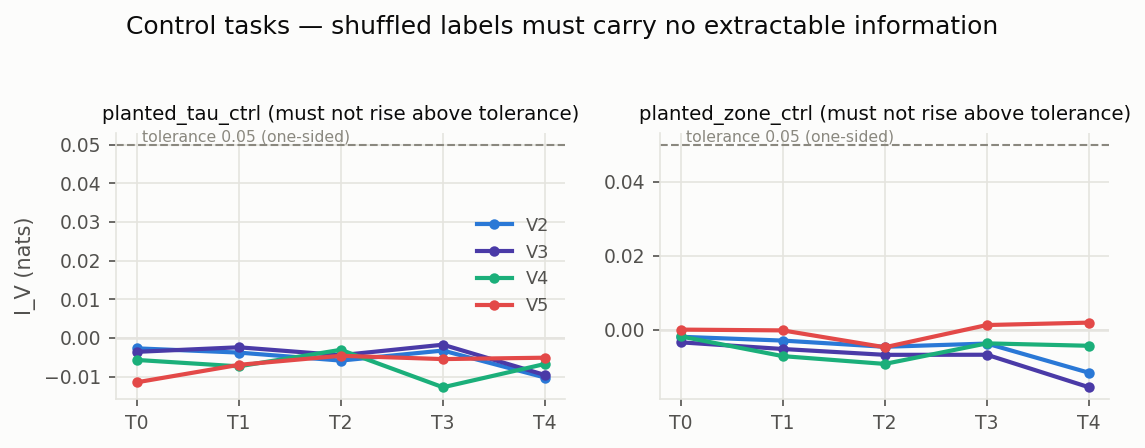
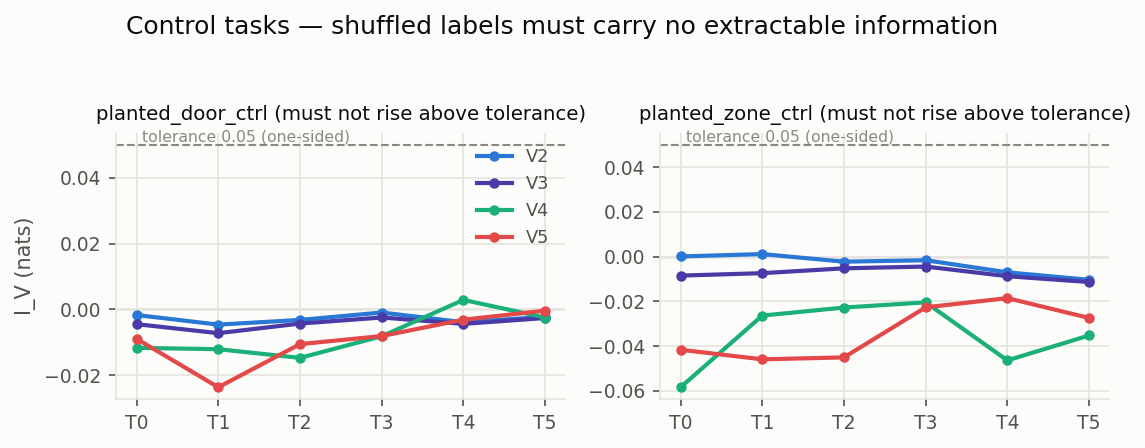
T-ladder instrument calibration PASS (P-4): 71/71 checks, run 7220
Six planted targets recover exactly at their planted tiers across V1-V5 on the
six-tier ladder; controls extract nothing. Figure-2 candidate surface in
results/reports/a0_calibration/. Bonus finding visible in the surface: V3's
partial degree readout at T2+ via door-counts (structure surfacing through
features) — a preview of exactly the effects the study measures.

diff --git a/results/reports/a0_calibration/report.md b/results/reports/a0_calibration/report.md
@@ -9,11 +9,11 @@ planted level and shuffled controls extract nothing (plan §6 Phase A0).
 
 | | |
 |---|---|
-| run_id | `20260714T032204Z-calibration_a0-s20260714` |
-| git SHA | `b7ac89685f99` |
-| config | `configs/calibration_a0.yaml` (sha256 `576a67a36af6…`) |
+| run_id | `20260714T043641Z-calibration_a0-s20260714` |
+| git SHA | `1c70d7aceb8b` |
+| config | `configs/calibration_t_ladder.yaml` (sha256 `c1f896b44649…`) |
 | seed | 20260714 |
-| cells | 453 (0 failed) |
+| cells | 723 (0 failed) |
 | host/job | deepnet2 |
 
 ## Calibration surface
@@ -37,61 +37,77 @@ dashed tolerance would indicate leakage/memorization.
 
 | check | detail | result |
 |---|---|---|
-| saturation | planted_degree · V4: I_V@T0 = 0.501 vs max below = 0.000 (margin 0.1) | PASS |
-| saturation | planted_degree · V5: I_V@T0 = 0.502 vs max below = 0.000 (margin 0.1) | PASS |
-| saturation | planted_tau · V2: I_V@T2 = 0.670 vs max below = -0.001 (margin 0.1) | PASS |
-| saturation | planted_tau · V3: I_V@T2 = 0.670 vs max below = 0.000 (margin 0.1) | PASS |
-| saturation | planted_tau · V4: I_V@T2 = 0.689 vs max below = -0.002 (margin 0.1) | PASS |
-| saturation | planted_tau · V5: I_V@T2 = 0.689 vs max below = -0.002 (margin 0.1) | PASS |
-| saturation | planted_delta · V2: I_V@T3 = 0.642 vs max below = -0.001 (margin 0.1) | PASS |
-| saturation | planted_delta · V3: I_V@T3 = 0.642 vs max below = -0.002 (margin 0.1) | PASS |
-| saturation | planted_delta · V4: I_V@T3 = 0.662 vs max below = -0.003 (margin 0.1) | PASS |
-| saturation | planted_delta · V5: I_V@T3 = 0.662 vs max below = -0.002 (margin 0.1) | PASS |
-| saturation | planted_zone · V0: I_V@T4 = 0.679 vs max below = 0.000 (margin 0.1) | PASS |
-| saturation | planted_zone · V2: I_V@T4 = 0.675 vs max below = -0.003 (margin 0.1) | PASS |
-| saturation | planted_zone · V3: I_V@T4 = 0.675 vs max below = -0.006 (margin 0.1) | PASS |
-| saturation | planted_zone · V4: I_V@T4 = 0.680 vs max below = -0.002 (margin 0.1) | PASS |
-| saturation | planted_zone · V5: I_V@T4 = 0.680 vs max below = -0.001 (margin 0.1) | PASS |
-| control | control planted_tau_ctrl · V2 @T0: I_V = -0.003 (< tol, one-sided) | PASS |
-| control | control planted_tau_ctrl · V2 @T1: I_V = -0.004 (< tol, one-sided) | PASS |
-| control | control planted_tau_ctrl · V2 @T2: I_V = -0.006 (< tol, one-sided) | PASS |
-| control | control planted_tau_ctrl · V2 @T3: I_V = -0.003 (< tol, one-sided) | PASS |
-| control | control planted_tau_ctrl · V2 @T4: I_V = -0.010 (< tol, one-sided) | PASS |
-| control | control planted_tau_ctrl · V3 @T0: I_V = -0.004 (< tol, one-sided) | PASS |
-| control | control planted_tau_ctrl · V3 @T1: I_V = -0.002 (< tol, one-sided) | PASS |
-| control | control planted_tau_ctrl · V3 @T2: I_V = -0.004 (< tol, one-sided) | PASS |
-| control | control planted_tau_ctrl · V3 @T3: I_V = -0.002 (< tol, one-sided) | PASS |
-| control | control planted_tau_ctrl · V3 @T4: I_V = -0.010 (< tol, one-sided) | PASS |
-| control | control planted_tau_ctrl · V4 @T0: I_V = -0.006 (< tol, one-sided) | PASS |
-| control | control planted_tau_ctrl · V4 @T1: I_V = -0.007 (< tol, one-sided) | PASS |
-| control | control planted_tau_ctrl · V4 @T2: I_V = -0.003 (< tol, one-sided) | PASS |
-| control | control planted_tau_ctrl · V4 @T3: I_V = -0.013 (< tol, one-sided) | PASS |
-| control | control planted_tau_ctrl · V4 @T4: I_V = -0.007 (< tol, one-sided) | PASS |
-| control | control planted_tau_ctrl · V5 @T0: I_V = -0.011 (< tol, one-sided) | PASS |
-| control | control planted_tau_ctrl · V5 @T1: I_V = -0.007 (< tol, one-sided) | PASS |
-| control | control planted_tau_ctrl · V5 @T2: I_V = -0.005 (< tol, one-sided) | PASS |
-| control | control planted_tau_ctrl · V5 @T3: I_V = -0.005 (< tol, one-sided) | PASS |
-| control | control planted_tau_ctrl · V5 @T4: I_V = -0.005 (< tol, one-sided) | PASS |
-| control | control planted_zone_ctrl · V2 @T0: I_V = -0.002 (< tol, one-sided) | PASS |
-| control | control planted_zone_ctrl · V2 @T1: I_V = -0.003 (< tol, one-sided) | PASS |
-| control | control planted_zone_ctrl · V2 @T2: I_V = -0.005 (< tol, one-sided) | PASS |
-| control | control planted_zone_ctrl · V2 @T3: I_V = -0.004 (< tol, one-sided) | PASS |
-| control | control planted_zone_ctrl · V2 @T4: I_V = -0.012 (< tol, one-sided) | PASS |
-| control | control planted_zone_ctrl · V3 @T0: I_V = -0.003 (< tol, one-sided) | PASS |
-| control | control planted_zone_ctrl · V3 @T1: I_V = -0.005 (< tol, one-sided) | PASS |
-| control | control planted_zone_ctrl · V3 @T2: I_V = -0.007 (< tol, one-sided) | PASS |
-| control | control planted_zone_ctrl · V3 @T3: I_V = -0.007 (< tol, one-sided) | PASS |
-| control | control planted_zone_ctrl · V3 @T4: I_V = -0.016 (< tol, one-sided) | PASS |
-| control | control planted_zone_ctrl · V4 @T0: I_V = -0.002 (< tol, one-sided) | PASS |
-| control | control planted_zone_ctrl · V4 @T1: I_V = -0.007 (< tol, one-sided) | PASS |
-| control | control planted_zone_ctrl · V4 @T2: I_V = -0.009 (< tol, one-sided) | PASS |
-| control | control planted_zone_ctrl · V4 @T3: I_V = -0.004 (< tol, one-sided) | PASS |
-| control | control planted_zone_ctrl · V4 @T4: I_V = -0.004 (< tol, one-sided) | PASS |
-| control | control planted_zone_ctrl · V5 @T0: I_V = +0.000 (< tol, one-sided) | PASS |
-| control | control planted_zone_ctrl · V5 @T1: I_V = -0.000 (< tol, one-sided) | PASS |
-| control | control planted_zone_ctrl · V5 @T2: I_V = -0.005 (< tol, one-sided) | PASS |
-| control | control planted_zone_ctrl · V5 @T3: I_V = +0.001 (< tol, one-sided) | PASS |
-| control | control planted_zone_ctrl · V5 @T4: I_V = +0.002 (< tol, one-sided) | PASS |
+| saturation | planted_degree · V4: I_V@T0 = 0.692 vs max below = 0.000 (margin 0.1) | PASS |
+| saturation | planted_degree · V5: I_V@T0 = 0.692 vs max below = 0.000 (margin 0.1) | PASS |
+| saturation | planted_label · V2: I_V@T1 = 0.690 vs max below = 0.003 (margin 0.1) | PASS |
+| saturation | planted_label · V3: I_V@T1 = 0.690 vs max below = -0.001 (margin 0.1) | PASS |
+| saturation | planted_label · V4: I_V@T1 = 0.693 vs max below = -0.004 (margin 0.1) | PASS |
+| saturation | planted_label · V5: I_V@T1 = 0.693 vs max below = -0.003 (margin 0.1) | PASS |
+| saturation | planted_door · V2: I_V@T2 = 0.584 vs max below = -0.005 (margin 0.1) | PASS |
+| saturation | planted_door · V3: I_V@T2 = 0.584 vs max below = -0.001 (margin 0.1) | PASS |
+| saturation | planted_door · V4: I_V@T2 = 0.589 vs max below = 0.009 (margin 0.1) | PASS |
+| saturation | planted_door · V5: I_V@T2 = 0.590 vs max below = -0.000 (margin 0.1) | PASS |
+| saturation | planted_attr · V2: I_V@T3 = 0.666 vs max below = -0.000 (margin 0.1) | PASS |
+| saturation | planted_attr · V3: I_V@T3 = 0.666 vs max below = -0.003 (margin 0.1) | PASS |
+| saturation | planted_attr · V4: I_V@T3 = 0.693 vs max below = -0.003 (margin 0.1) | PASS |
+| saturation | planted_attr · V5: I_V@T3 = 0.691 vs max below = -0.008 (margin 0.1) | PASS |
+| saturation | planted_delta · V2: I_V@T4 = 0.610 vs max below = -0.002 (margin 0.1) | PASS |
+| saturation | planted_delta · V3: I_V@T4 = 0.610 vs max below = -0.004 (margin 0.1) | PASS |
+| saturation | planted_delta · V4: I_V@T4 = 0.622 vs max below = -0.015 (margin 0.1) | PASS |
+| saturation | planted_delta · V5: I_V@T4 = 0.623 vs max below = -0.007 (margin 0.1) | PASS |
+| saturation | planted_zone · V0: I_V@T5 = 0.694 vs max below = 0.000 (margin 0.1) | PASS |
+| saturation | planted_zone · V2: I_V@T5 = 0.690 vs max below = 0.012 (margin 0.1) | PASS |
+| saturation | planted_zone · V3: I_V@T5 = 0.690 vs max below = 0.015 (margin 0.1) | PASS |
+| saturation | planted_zone · V4: I_V@T5 = 0.695 vs max below = -0.011 (margin 0.1) | PASS |
+| saturation | planted_zone · V5: I_V@T5 = 0.695 vs max below = -0.015 (margin 0.1) | PASS |
+| control | control planted_door_ctrl · V2 @T0: I_V = -0.002 (< tol, one-sided) | PASS |
+| control | control planted_door_ctrl · V2 @T1: I_V = -0.005 (< tol, one-sided) | PASS |
+| control | control planted_door_ctrl · V2 @T2: I_V = -0.003 (< tol, one-sided) | PASS |
+| control | control planted_door_ctrl · V2 @T3: I_V = -0.001 (< tol, one-sided) | PASS |
+| control | control planted_door_ctrl · V2 @T4: I_V = -0.004 (< tol, one-sided) | PASS |
+| control | control planted_door_ctrl · V2 @T5: I_V = -0.002 (< tol, one-sided) | PASS |
+| control | control planted_door_ctrl · V3 @T0: I_V = -0.004 (< tol, one-sided) | PASS |
+| control | control planted_door_ctrl · V3 @T1: I_V = -0.007 (< tol, one-sided) | PASS |
+| control | control planted_door_ctrl · V3 @T2: I_V = -0.004 (< tol, one-sided) | PASS |
+| control | control planted_door_ctrl · V3 @T3: I_V = -0.002 (< tol, one-sided) | PASS |
+| control | control planted_door_ctrl · V3 @T4: I_V = -0.004 (< tol, one-sided) | PASS |
+| control | control planted_door_ctrl · V3 @T5: I_V = -0.003 (< tol, one-sided) | PASS |
+| control | control planted_door_ctrl · V4 @T0: I_V = -0.012 (< tol, one-sided) | PASS |
+| control | control planted_door_ctrl · V4 @T1: I_V = -0.012 (< tol, one-sided) | PASS |
+| control | control planted_door_ctrl · V4 @T2: I_V = -0.015 (< tol, one-sided) | PASS |
+| control | control planted_door_ctrl · V4 @T3: I_V = -0.008 (< tol, one-sided) | PASS |
+| control | control planted_door_ctrl · V4 @T4: I_V = +0.003 (< tol, one-sided) | PASS |
+| control | control planted_door_ctrl · V4 @T5: I_V = -0.002 (< tol, one-sided) | PASS |
+| control | control planted_door_ctrl · V5 @T0: I_V = -0.009 (< tol, one-sided) | PASS |
+| control | control planted_door_ctrl · V5 @T1: I_V = -0.024 (< tol, one-sided) | PASS |
+| control | control planted_door_ctrl · V5 @T2: I_V = -0.011 (< tol, one-sided) | PASS |
+| control | control planted_door_ctrl · V5 @T3: I_V = -0.008 (< tol, one-sided) | PASS |
+| control | control planted_door_ctrl · V5 @T4: I_V = -0.003 (< tol, one-sided) | PASS |
+| control | control planted_door_ctrl · V5 @T5: I_V = -0.000 (< tol, one-sided) | PASS |
+| control | control planted_zone_ctrl · V2 @T0: I_V = +0.000 (< tol, one-sided) | PASS |
+| control | control planted_zone_ctrl · V2 @T1: I_V = +0.001 (< tol, one-sided) | PASS |
+| control | control planted_zone_ctrl · V2 @T2: I_V = -0.002 (< tol, one-sided) | PASS |
+| control | control planted_zone_ctrl · V2 @T3: I_V = -0.002 (< tol, one-sided) | PASS |
+| control | control planted_zone_ctrl · V2 @T4: I_V = -0.007 (< tol, one-sided) | PASS |
+| control | control planted_zone_ctrl · V2 @T5: I_V = -0.010 (< tol, one-sided) | PASS |
+| control | control planted_zone_ctrl · V3 @T0: I_V = -0.009 (< tol, one-sided) | PASS |
+| control | control planted_zone_ctrl · V3 @T1: I_V = -0.007 (< tol, one-sided) | PASS |
+| control | control planted_zone_ctrl · V3 @T2: I_V = -0.005 (< tol, one-sided) | PASS |
+| control | control planted_zone_ctrl · V3 @T3: I_V = -0.004 (< tol, one-sided) | PASS |
+| control | control planted_zone_ctrl · V3 @T4: I_V = -0.009 (< tol, one-sided) | PASS |
+| control | control planted_zone_ctrl · V3 @T5: I_V = -0.011 (< tol, one-sided) | PASS |
+| control | control planted_zone_ctrl · V4 @T0: I_V = -0.058 (< tol, one-sided) | PASS |
+| control | control planted_zone_ctrl · V4 @T1: I_V = -0.026 (< tol, one-sided) | PASS |
+| control | control planted_zone_ctrl · V4 @T2: I_V = -0.023 (< tol, one-sided) | PASS |
+| control | control planted_zone_ctrl · V4 @T3: I_V = -0.020 (< tol, one-sided) | PASS |
+| control | control planted_zone_ctrl · V4 @T4: I_V = -0.046 (< tol, one-sided) | PASS |
+| control | control planted_zone_ctrl · V4 @T5: I_V = -0.035 (< tol, one-sided) | PASS |
+| control | control planted_zone_ctrl · V5 @T0: I_V = -0.042 (< tol, one-sided) | PASS |
+| control | control planted_zone_ctrl · V5 @T1: I_V = -0.046 (< tol, one-sided) | PASS |
+| control | control planted_zone_ctrl · V5 @T2: I_V = -0.045 (< tol, one-sided) | PASS |
+| control | control planted_zone_ctrl · V5 @T3: I_V = -0.023 (< tol, one-sided) | PASS |
+| control | control planted_zone_ctrl · V5 @T4: I_V = -0.019 (< tol, one-sided) | PASS |
+| control | control planted_zone_ctrl · V5 @T5: I_V = -0.027 (< tol, one-sided) | PASS |
 
 _Regenerate with `scripts/make_reports.py` — figures are derived from the
 run's cell records; nothing here is hand-entered._

diff --git a/docs/ROADMAP.md b/docs/ROADMAP.md
@@ -19,8 +19,9 @@ Tesseract2. Stage-gated execution:
       inspect): MSD render lane (raster + text labels from ground-truth geometry)
       → Tesseract batches on slurm → corpus tree per dataset; pipeline accuracy
       scored against MSD's shipped graphs (room recall / door precision / edge F1)
-- [ ] P-4 Re-calibrate the instrument on the T-ladder (full A0, slurm) — must PASS
-      before any tier claim (v1-ladder estimator PASSed: run 7214)
+- [x] P-4 T-ladder instrument calibration **PASS** (slurm 7220, 2026-07-14: 71/71
+      checks; every planted target recovered exactly at its tier — see
+      results/reports/a0_calibration/). V6 row running separately (GPU resubmit).
 - [ ] P-5 Probe grid on T0–T3 (V0–V6, controls, oracle skylines, MDL) — **THE
       STAGE GATE**: only an established increasing information ordering across the
       free tiers unlocks manual T4/T5 investment (annotation tool = future TODO)